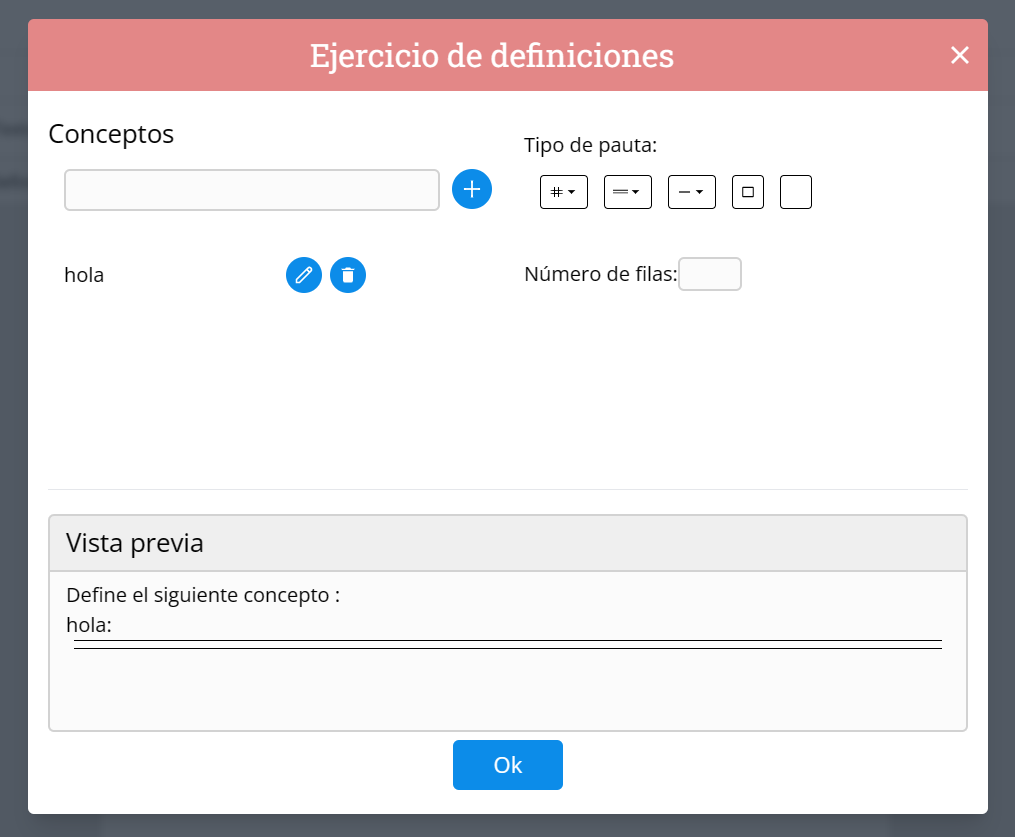
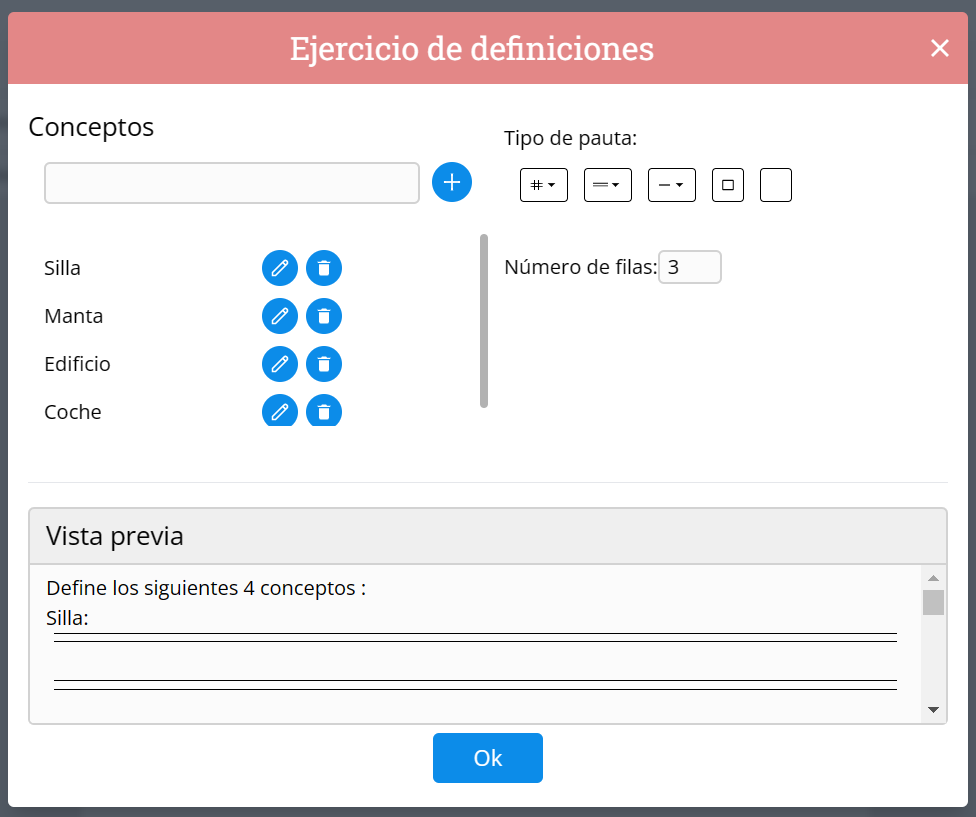
Memoria - Correcciones

diff --git a/Memoria/Capitulos/AdaptaMaterialEscolar2.0.tex b/Memoria/Capitulos/AdaptaMaterialEscolar2.0.tex
@@ -152,7 +152,8 @@ En segundo lugar, las funcionalidades auxiliares aparecerán  como botones en el
   \item \textbf{Ejercicio de flechas:} El usuario introducirá los conceptos en el orden que elija y podrá aumentar el número de columnas tendrá la opción de generar o resetear como se ve en la Figura \ref{Johan8}.
   \item  \textbf{Leyenda de colores:} El usuario podrá elegir el color del concepto y la descripción del concepto. Podrá modificarlos en cualquier momento y además podrá añadir y eliminar conceptos con su respectivo color, para generar el resultado o resetear los valores introducidos dispondrá de botones. Todo esto se puede ver en la Figura \ref{Johan9}. Este diseño es para la leyenda por conceptos y la leyenda de temas.
 \end{itemize}
-Por otra parte, las funcionalidades de pictograma, completar huecos, definiciones y desarrollo se considerá emplear el diseño de AdaptaMaterialEscolar 1.0. La funcionalidad de verdadero o falso tendrá el mismo formato del ejercicio de flechas y el de generar un resumen tendrá el mismo formato del pictotraductor. En cuanto a las opciones de doble pauta, cuadrícula, estandarizar formato, espacio para dibujar, fuente escolar y convertir a formato Word se emplearán botones.
+
+Por otra parte, las funcionalidades de pictograma, completar huecos, definiciones y desarrollo se empleó el diseño de AdaptaMaterialEscolar 1.0. La funcionalidad de verdadero o falso tendrá el mismo formato del ejercicio de flechas y el de generar un resumen tendrá el mismo formato del pictotraductor. En cuanto a las opciones de doble pauta, cuadrícula, estandarizar formato, espacio para dibujar, fuente escolar y convertir a formato Word se emplearán botones.
 
 \subsection{Diseño final}\label{subsec:DisenyoFinal}
 A continuación expondremos el diseño final de la aplicación. Para ello partimos de los diseños expuestos anteriormente. Todas las funcionalidades se han diseñado como ventanas modales para centrar la acción del usuario en la funcionalidad seleccionada y disponen de un boton \textit{OK} para confirmar la vista previa y transferir el ejercicio al documento de trabajo.
@@ -413,18 +414,12 @@ Para implementar esta funcionalidad se ha empleado un área de texto en la cual 
 \end{figure}
 
 \subsubsection{Ejercicio de definiciones}
-Cuando seleccionamos esta opción se nos despliega la interfaz de la Figura \ref{fig:funcionalidadDefinicion}. Para crear este tipo de ejercicio se debe rellenar el siguiente campo:
+Cuando seleccionamos esta opción se nos despliega la interfaz de la Figura \ref{fig:funcionalidadDefinicion}. Para crear este tipo de ejercicio se debe rellenar el campo de conceptos a definir. Este contiene los conceptos que se quieren definir. Se deben introducir en la entrada de texto que se posicióna debajo del título Conceptos, se pueden introducir al pulsar  la tecla \textit{ENTER} o presionando el botón con el icono del mas. En caso de querer borrar el concepto añadido se deberá presionar al boton con el icono de la papelera y si se quiere modificar se deberá presionar al boton con el icono del lapiz.
+Una vez introducidos los conceptos a definir se habilitará el botón \textit{Ok}. Los otros campos son opcionales debido a tener valores por defecto, estos son:
 \begin{itemize}
-  \item Conceptos a definir: Contiene los conceptos que se quieren definir. Estos deben introducirse en la entrada de texto que se posicióna debajo del título Conceptos, se pueden introducir al pulsar  la tecla \textit{ENTER} o presionando el botón con el icono del mas. En caso de querer borrar el concepto añadido se deberá presionar al boton con el icono de la papelera y si se quiere modificar se deberá presionar al boton con el icono del lapiz.
-\end{itemize}
-Una vez introducido los conceptos a definir se habilitará el botón \textit{Ok}. Los otros campos son opcionales debido a tener valores por defecto, estos son:
-\begin{itemize}
-  \item Tipos de pauta: Permite seleccionar la pauta que ira con cada concepto. Por defecto es doble pauta.
+  \item Tipos de pauta: Permite seleccionar la pauta que ira con cada concepto, el usuario podrá elegir entre espacio pada dibujar, cuadrado para dibujar, doble pauta, pauta simple y cuadricula. Por defecto es doble pauta.
   \item Numero de filas: Se refiere a la cantidad de veces que se mostrará la pauta seleccionada. Su valor mínimo es de uno y máximo de cien. Por defecto, su valor es de una fila.
 \end{itemize}
-Esta opción esta gestionada internamente mediante tres estados. El primero almacena el un array de conceptos, inicialmente vacio, con cada insercción se realiza un \textit{push} a este array añadiendole el concepto introducido, las modificaciones son gestionadas mediante el indice y del concepto seleccionado y el valor por el que se quiere rescribir y los eliminaciones mediante un función de orden superior que proporciona JavaScript denominada filter. El segundo estado almacena el numero de filas y el tercer estado el estilo que se quiere emplear para doble pauta.
-Finalmente con estos tres estados se genera la vista previa.
-
 \begin{figure}[ht!]
   \centering
   \includegraphics[width=0.7\textwidth]{Imagenes/Funcionalidades/EjercicioDefinicion.png}
@@ -519,20 +514,19 @@ Una vez que el usuario ha terminado de editar las frases, se puede enviar el eje
 El editor de texto que hemos empleado es Slate (explicado en la Sección \ref{sec:Slate}). En esta sección, se describirá en detalle la estructura del editor y su integración en nuestra aplicación de adaptación curricular.
 
 \subsection{Estructura}
-El editor consta de tres partes: barra de selección de barra de herramientas, barra de herramientas seleccionada y la zona de escritura. Como se ve en la Figura \ref{Forato}
-La barra de selección de herramientas dispone de los siguientes elementos: Archivo, Formato, Ejercicios y Texto. Estos elementos han sido explicados en la Sección \ref{cap:requisitos}, cabe destacar que hemos empleado el patrón \textit{Factory} para separar la creación del elemento del creador de esta forma se logra una mayor escalabilidad.
+El editor consta de tres partes: barra de selección de barra de herramientas, barra de herramientas seleccionada y la zona de escritura. Como se ve en la Figura \ref{Forato} la barra de selección de herramientas dispone de los siguientes elementos: Archivo, Formato, Ejercicios y Texto. Estos elementos han sido explicados en la Sección \ref{cap:requisitos}, cabe destacar que hemos empleado el patrón \textit{Factory} para separar la creación del elemento del creador de esta forma se logra una mayor escalabilidad.
 A continuación, se explicará en detalle cada una de las barras de herramientas disponibles en el editor:
 \begin{itemize}
-  \item Barra de herramientas de Archivo: Esta barra de herramientas contiene opciones relacionadas con el manejo de archivos, estas son: Exportar a PDF, Exportar Word e Importar documento.
-  \item Barra de herramientas de Formato: Esta barra de herramientas contiene opciones para formatear el texto que se está editando. Algunas opciones comunes en esta barra de herramientas son: cambiar la fuente, ajustar el tamaño de la fuente, aplicar negrita, cursiva o subrayado, cambiar el color del texto, etc.
-  \item Barra de herramientas de Ejercicios: Esta barra de herramientas contiene opciones para crear ejercicios. Algunas opciones en esta barra de herramientas son: crear una pregunta de verdadero o falso, crear ejercicios de rellenar huecos, etc.
-  \item Barra de herramientas de Texto: Esta barra de herramientas contiene opciones para manipular el texto:  Generar resumen, Picotraductor, Buscar pictograma y Leyenda.
+  \item Archivo: Esta contiene opciones relacionadas con el manejo de archivos, estas son: Exportar a PDF, Exportar a Word e Importar documento.
+  \item Formato: Esta contiene opciones para formatear el texto que se está editando. Algunas opciones comunes en esta barra de herramientas son: cambiar la fuente, ajustar el tamaño de la fuente, aplicar negrita, cursiva o subrayado, cambiar el color del texto, etc.
+  \item Ejercicios: Esta barra de herramientas contiene opciones para crear ejercicios. Algunas opciones en esta barra de herramientas son: crear una pregunta de verdadero o falso, crear ejercicios de rellenar huecos, etc.
+  \item Texto: Esta barra de herramientas contiene opciones para manipular el texto:  Generar resumen, Picotraductor, Buscar pictograma y Leyenda.
 \end{itemize}
-Las barras de herramientas de Ejercicios, Archivo y Formato se han explicado en la Sección 6.1. Además, cabe mencionar que las opciones en las barras de herramientas de Archivo y formato generan un modal y estos modales también son gestionados con el patrón \textit{Factory} como se explica en la Sección \ref{sub:Arquitectura}.
+Cabe mencionar que las opciones en las barras de herramientas de Archivo y formato generan un modal y estos modales también son gestionados con el patrón \textit{Factory} como se explica en la Sección \ref{sub:Arquitectura}.
 
 \subsection{Integración}
-Para su integración hemos empleado React-Slate, una librería React para crear editores de texto basada en Slate. Su configuración inicial solo provee de la funcionalidad de escribir y borrar por lo que todas sus funcionalidades deben ser añadidas incluyendo las funciones de un editor común. Esta librería te proporciona el componente ''Editable`` que es como una especie de lienzo,  el componente ''Slate`` es el marco de este lienzo y ''withReact`` es un envoltorio de Slate que permite integrar de forma fácil y eficiente la biblioteca de edición de texto con React es decir que permite que el editor se actualice a tiempo real.
-\\
+Para integrar Slate en nuestra aplicación hemos empleado React-Slate, una librería React para crear editores de texto basada en Slate. Su configuración inicial solo provee de la funcionalidad de escribir y borrar por lo que todas sus funcionalidades deben ser añadidas incluyendo las funciones de un editor común. Esta librería te proporciona el componente ''Editable`` que es como una especie de lienzo,  el componente ''Slate`` es el marco de este lienzo y ''withReact`` es un envoltorio de Slate que permite integrar de forma fácil y eficiente la biblioteca de edición de texto con React es decir que permite que el editor se actualice en tiempo real.
+
 Una vez establecido el editor continuaremos con su configuración desde la perspectiva funcional, para entender esto debemos indagar más en el concepto de árbol que nos proporciona Slate. El árbol de Slate es una estructura de datos jerárquica que representa el contenido editable dentro de un editor de texto Slate. Este está compuesto por nodos que representan diferentes tipos de contenido, como texto sin formato, texto con formato, imágenes, videos y mucho más. El nodo principal en el árbol de Slate es el nodo documento, que es el contenedor de todos los demás nodos. Cada nodo hijo del nodo documento puede ser un nodo hoja o un nodo de elemento. Los nodos de hoja contienen el contenido de texto real, mientras que los nodos de elemento contienen información sobre el formato, el estilo y otras propiedades del contenido. Cada nodo de elemento puede tener varios nodos secundarios, y estos nodos pueden ser de cualquier tipo que el desarrollador desee definir. Por ejemplo, un nodo de elemento podría representar un párrafo, una lista, etc. Cada nodo en el árbol de Slate también puede tener una serie de propiedades que describen el contenido y su estilo. Estas propiedades se almacenan en un objeto llamado "props”.
-\\
+
 Con esto ya definido explicar el árbol que hemos definido. En primer lugar, tenemos los nodos hojas que son texto en negrita, itálica, subrayado y tachado, estos se almacena en un componente llamado \textit{Leaf}. En segundo lugar, tenemos los nodos elemento uno por cada ejercicio, imagen, icono, tabla, icono, y lista. Los nodos elemento tienen una estructura similar en la cual se define un componente que representa este nodo. Pero algunos tienen un comportamiento diferente el cual se define mediante lo que denominamos plugin. Slate cuenta con un sistema de plugins estos se comportan como envoltorios como el ``withReact''. Todos nuestros plugins se almacenan en una carpeta llamada plugins. Los elementos que requieren esto son la imagen, tabla e icono. El plugin de las imágenes  define que el editor interprete este elemento como vacío esto se logra  indicando a Slate que su función \textit{isVoid} indique verdadero cuando encuentre una imagen logrando que la imagen se comporte como una unidad indivisible, también le indicamos que es un elemento en línea esto se logra indicando a Slate que su función \textit{isInline} devuelva verdadero y le indicamos que cuando reciba una url de imagen también se interprete como una imagen esto se lo obtenemos al modificar de Slate su función \textit{insertData}. El plugin de los iconos es igual al de las imágenes pero sin modificar la función \textit{insertData}.

diff --git a/Memoria/Capitulos/Herramientas.tex b/Memoria/Capitulos/Herramientas.tex
@@ -58,9 +58,7 @@ Tailwind CSS\footnote{\url{https://tailwindcss.com/}} es un framework CSS que pe
 % TODO: Añadir ejemplos de uso
 
 \section{Slate}\label{sec:Slate}
-Slate\footnote{\url{https://docs.slatejs.org/}} es un framework de JavaScript de código abierto que tiene como finalidad la creación de editores de texto personalizados "What You See Is What You Get" (WYSIWYG). Es la herramienta ideal para este proyecto, el cual busca construir un editor de texto de alta calidad capaz de realizar diversos tipos de adaptación curricular. A diferencia de las bibliotecas de edición de texto convencionales, Slate utiliza una estructura de árbol de datos para representar el contenido del editor, y proporciona una API para manipular dicho contenido de forma más efectiva.\\
-
-Las principales características de Slate incluyen:
+Slate\footnote{\url{https://docs.slatejs.org/}} es un framework de JavaScript de código abierto que tiene como finalidad la creación de editores de texto personalizados "What You See Is What You Get" (WYSIWYG). Es la herramienta ideal para este proyecto, el cual busca construir un editor de texto de alta calidad capaz de realizar diversos tipos de adaptación curricular. A diferencia de las bibliotecas de edición de texto convencionales, Slate utiliza una estructura de árbol de datos para representar el contenido del editor, y proporciona una API para manipular dicho contenido de forma más efectiva.Las principales características de Slate incluyen:
 \begin{itemize}
   \item \textbf{Personalización}: La biblioteca permite a los desarrolladores personalizar el editor de texto según sus necesidades, lo que significa que pueden definir sus propios tipos de nodos y componentes de renderizado.
   \item \textbf{Flexibilidad}: Al ser una biblioteca de JavaScript, SlateJS es altamente flexible y puede integrarse fácilmente con otras bibliotecas y marcos como React.

diff --git a/Memoria/Capitulos/Metodologia.tex b/Memoria/Capitulos/Metodologia.tex
@@ -45,7 +45,7 @@ En Kanban para priorizar las tareas del tablero en ocasiones se emplean las clas
     \item Expedite: Tareas que necesitan ser gestionadas de manera acelerada o urgente. Por ejemplo, algún problema con el editor que nos impediría implementar cualquier otra tarea hasta que esta esté terminada.
     \item Fixed Delivery Date: Tareas con fecha fija que debemos cumplir. Por ejemplo, la corrección de la documentación para la siguiente reunión con las tutoras.
     \item Standard: Tareas que ya ha hecho antes el equipo que no tienen una fecha fija y que ya saben como realizar. Por ejemplo, la realización de pruebas de control de calidad de rutina en el software
-    \item Intangible: Tareas que son nuevas, se desconoce el tiempo que se le va a dedicar y el riesgo que suponen. Por ejemplo, una refactorización del código.
+    \item Intangible: Tareas que son nuevas para el equipo, tareas que nunca antes han realizado y por tanto, se desconoce el tiempo que se le va a dedicar y el riesgo que suponen. Por ejemplo, la función de exportar a PDF.
 \end{itemize}
 
 Para su aplicación tomaremos unas medidas en base a su prioridad. Las clases \textit{Expedite} son las más prioritarias por lo que serán las primeras en ser realizadas. Las \textit{Fixed Delivery Date}, si en su debida fecha (la cual estará indicada en su descripción) no están implementadas, se convierten en \textit{Expedite}. Las \textit{Standard} son un poco menos prioritarias que las anteriores al contar con el coste y el esfuerzo que suponen pero presentan un cierto grado de incertidumbre al no tener una fecha fija. Por último, en las \textit{Intangibles} su prioridad varía al presentar un alto grado de incertidumbre, ya que inicialmente se desconoce el riesgo que suponen pero pueden convertirse en \textit{Standard} o en \textit{Expedite}.
